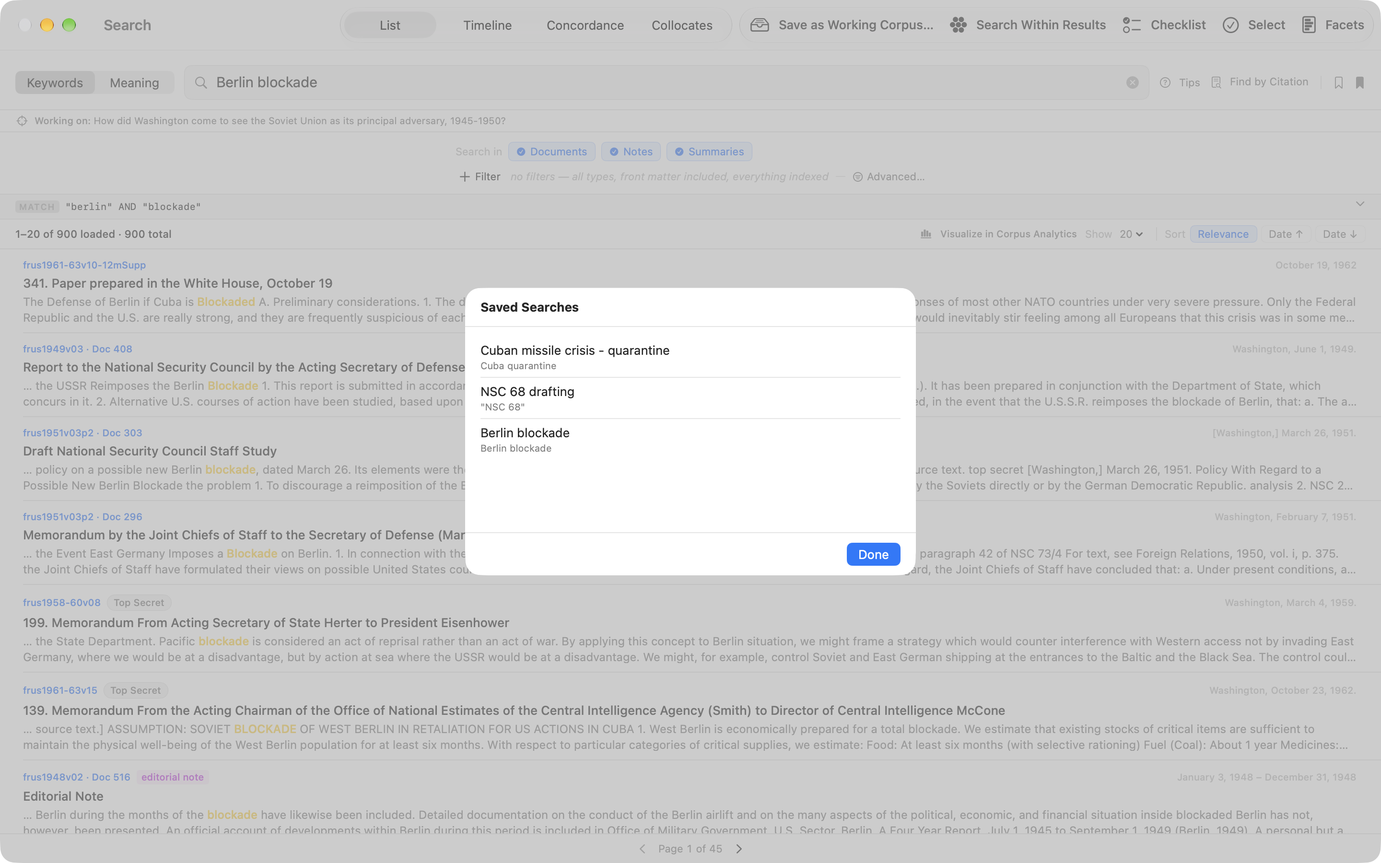
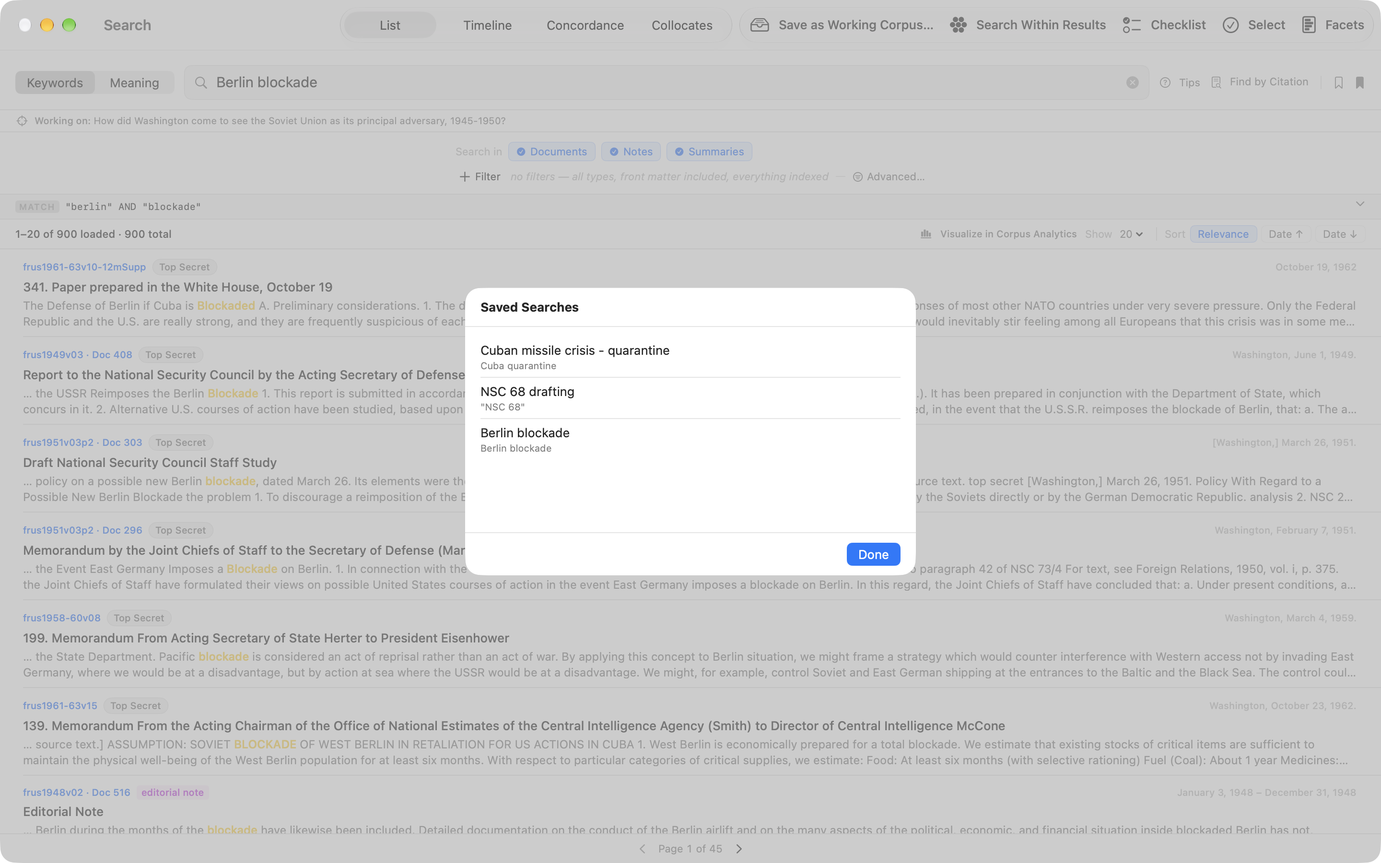
Screenshots: the Mac's 1861 retakes and its Editors' Annotations axis; captions in the manuals and quick starts

diff --git a/Docs/Website/quick-start-mac.html b/Docs/Website/quick-start-mac.html
@@ -145,7 +145,7 @@
 
 <p>Click <strong>Browse</strong> (⇧⌘B) to open the <strong>Corpus Browser</strong>. Its sidebar lists the ways in — <strong>All Volumes</strong>, <strong>Administrations</strong>, <strong>Editors</strong>, <strong>Archives</strong> and <strong>Clusters</strong>, your own scopes and corpora, and every subseries. Click a subseries, a volume, a chapter and a document, and the document opens in the main window.</p>
 
-<p class="shots"><img src="https://raw.githubusercontent.com/joshbotts/FRUS-Explorer/HEAD/Docs/screenshots/macos/browser.png" alt="The Corpus Browser: the sidebar&#x27;s Browse, Your sets and Subseries sections, each subseries with how many of its volumes are downloaded, and a volume&#x27;s page — Foreign Relations of the United States, 1946, Eastern Europe, The Soviet Union, Volume VI — with its top subjects, front matter and contents." width="2880" height="1760" loading="lazy"></p>
+<p class="shots"><img src="https://raw.githubusercontent.com/joshbotts/FRUS-Explorer/HEAD/Docs/screenshots/macos/browser.png" alt="The Corpus Browser: the sidebar&#x27;s Browse, Your sets and Subseries sections, each subseries with how many of its volumes are downloaded, and a volume&#x27;s page — Foreign Relations of the United States, 1946, Eastern Europe, The Soviet Union, Volume VI — with its top subjects, its Editors’ Annotations, front matter and contents." width="2880" height="1760" loading="lazy"></p>
 
 <p><em>The Corpus Browser, showing a volume's page.</em></p>
 
@@ -228,7 +228,7 @@
 
 <p>The <strong>Tips</strong> button beside the field has the full list, <code>NEAR</code> included.</p>
 
-<p class="shots"><img src="https://raw.githubusercontent.com/joshbotts/FRUS-Explorer/HEAD/Docs/screenshots/macos/search.png" alt="The Search window: a keyword search for Berlin blockade, with the List, Timeline, Concordance and Collocates switch in the title bar, the MATCH strip, 1–20 of 900 loaded, the ranked results with highlighted snippets, and the Facets panel open on its Subjects section." width="2880" height="1800" loading="lazy"></p>
+<p class="shots"><img src="https://raw.githubusercontent.com/joshbotts/FRUS-Explorer/HEAD/Docs/screenshots/macos/search.png" alt="The Search window: a keyword search for Berlin blockade, with the List, Timeline, Concordance and Collocates switch in the title bar, the MATCH strip, 1–20 of 900 loaded, the ranked results with highlighted snippets and classification markings such as Top Secret, and the Facets panel open on its Subjects section." width="2880" height="1800" loading="lazy"></p>
 
 <p><em>The Search window, with the Facets panel open.</em></p>
 
@@ -244,7 +244,7 @@
 
 <p>Click <strong>Sources</strong> in the Research rail. <strong>Source Explorer</strong> opens in a window of its own and reads the document's source note — the lot file, decimal file or presidential-library collection the original came from — and matches it, where it can, to its record in the National Archives catalog, including the entry number to give the archivists when you request the records. Below the record, <strong>Archival Neighbors</strong> lists the other documents in your indexed volumes that come from the same archival source, so you can read a document alongside the rest of its box.</p>
 
-<p class="shots"><img src="https://raw.githubusercontent.com/joshbotts/FRUS-Explorer/HEAD/Docs/screenshots/macos/source-explorer.png" alt="Source Explorer for a document printed from S/S–NSC files, lot 63 D 351: on the left the source note, its provenance — a State Department lot file in Record Group 59 — and the archival collection, cited in 98 volumes; on the right the NARA catalog record it resolves to, with HMS/MLR entry A1 1586E, and the Archival Neighbors list." width="2880" height="1800" loading="lazy"></p>
+<p class="shots"><img src="https://raw.githubusercontent.com/joshbotts/FRUS-Explorer/HEAD/Docs/screenshots/macos/source-explorer.png" alt="Source Explorer for a document printed from S/S–NSC files, lot 63 D 351: on the left the source note with the document&#x27;s Top Secret marking, its provenance — a State Department lot file in Record Group 59 — and the archival collection, cited in 98 volumes; on the right the NARA catalog record it resolves to, with HMS/MLR entry A1 1586E, and the Archival Neighbors list." width="2880" height="1800" loading="lazy"></p>
 
 <p><em>Source Explorer, resolving a lot file to its National Archives series.</em></p>
 

diff --git a/Docs/Website/quick-start-ios.html b/Docs/Website/quick-start-ios.html
@@ -147,7 +147,7 @@
   </tbody>
 </table>
 
-<p class="shots"><img src="https://raw.githubusercontent.com/joshbotts/FRUS-Explorer/HEAD/Docs/screenshots/ipad/browse-root.png" alt="Browse on iPad with the sidebar open — the five tabs, a saved search and the active project beneath them — and the Browse root: Continue reading, the volume search field, People and Topics, the Browse by tiles, and Your sets, with the Subseries list open on the right." width="2752" height="2064" loading="lazy"></p>
+<p class="shots"><img src="https://raw.githubusercontent.com/joshbotts/FRUS-Explorer/HEAD/Docs/screenshots/ipad/browse-root.png" alt="Browse on iPad with the sidebar open — the five tabs, a saved search and the active project beneath them — and the Browse root: Continue reading, the volume search field, People and Topics, the Browse by tiles, the Editors’ Annotations door below them, and Your sets, with the Subseries list open on the right." width="2752" height="2064" loading="lazy"></p>
 
 <p><em>The Browse tab, with the Subseries list open. Saved searches and projects appear in the sidebar under the tabs once you have some.</em></p>
 
@@ -235,7 +235,7 @@
 
 <p><strong>•••</strong> → <strong>Search Tips</strong> has the full list, <code>NEAR</code> included.</p>
 
-<p class="shots"><img src="https://raw.githubusercontent.com/joshbotts/FRUS-Explorer/HEAD/Docs/screenshots/ipad/search-results.png" alt="A keyword search for Berlin blockade on iPad: the Keywords and Meaning control, the row of result tools, the MATCH strip reading &quot;berlin&quot; AND &quot;blockade&quot;, 900 results on 36 pages, and the ranked list, each result with its number, heading, dateline, volume and a snippet with the matched words highlighted." width="2752" height="2064" loading="lazy"></p>
+<p class="shots"><img src="https://raw.githubusercontent.com/joshbotts/FRUS-Explorer/HEAD/Docs/screenshots/ipad/search-results.png" alt="A keyword search for Berlin blockade on iPad: the Keywords and Meaning control, the row of result tools, the MATCH strip reading &quot;berlin&quot; AND &quot;blockade&quot;, 900 results on 36 pages, and the ranked list, each result with its number, heading, dateline, volume a snippet with the matched words highlighted and, where the document prints one, its classification marking, such as Top Secret." width="2752" height="2064" loading="lazy"></p>
 
 <p><em>A keyword search. The <strong>MATCH</strong> strip shows how the app read your query.</em></p>
 
@@ -250,7 +250,7 @@
 
 <p>In the Research rail, tap <strong>Sources</strong>. <strong>Source Explorer</strong> reads the document's source note — the lot file, decimal file or presidential-library collection the original came from — and matches it, where it can, to its record in the National Archives catalog, including the entry number to give the archivists when you request the records.</p>
 
-<p class="shots"><img src="https://raw.githubusercontent.com/joshbotts/FRUS-Explorer/HEAD/Docs/screenshots/ipad/source-explorer.png" alt="Source Explorer for a document printed from S/S–NSC files, lot 63 D 351: the source note, its provenance — a State Department lot file in Record Group 59 — and the NARA catalog record it resolves to, held at College Park, with HMS/MLR entry A1 1586E and a link to open the series in the NARA Catalog." width="2752" height="2064" loading="lazy"></p>
+<p class="shots"><img src="https://raw.githubusercontent.com/joshbotts/FRUS-Explorer/HEAD/Docs/screenshots/ipad/source-explorer.png" alt="Source Explorer for a document printed from S/S–NSC files, lot 63 D 351: the source note with the document&#x27;s Top Secret marking, its provenance — a State Department lot file in Record Group 59 — and the NARA catalog record it resolves to, held at College Park, with HMS/MLR entry A1 1586E and a link to open the series in the NARA Catalog." width="2752" height="2064" loading="lazy"></p>
 
 <p><em>Source Explorer, resolving a lot file to its National Archives series.</em></p>
 

diff --git a/Docs/macOS-User-Manual.md b/Docs/macOS-User-Manual.md
@@ -293,11 +293,13 @@ The vectors, the semantic map and its regions are made when the app is built. If
 
 Open the **Corpus Browser** with **⇧⌘B** (or **Find ▸ Corpus Browser…**) to navigate the series as a hierarchy — or through the sidebar's **Browse** section, by other ways in.
 
-![The Corpus Browser — the sidebar's Browse, Your sets and Subseries sections, and a volume's page with its Top subjects, front matter and contents.](screenshots/macos/browser.png)
+![The Corpus Browser — the sidebar's Browse, Your sets and Subseries sections, and a volume's page with its Top subjects, the collapsed Editors’ Annotations section, front matter and contents.](screenshots/macos/browser.png)
 
 ### 6.1 The Sidebar and Navigation Levels
 
 The sidebar has three sections. **Browse** holds the cross-cutting doors: **All Volumes** — one catalog of every volume, searchable, with a control arranging it by **Title** (A–Z on each volume's distinctive title segment, since almost every full title begins with the same series boilerplate; early annuals file under **#**), **Published** (print year, newest first, in decade groups — the year from the title page, not a declassification date), **Era**, or **Length** (document count, largest first); **Administrations** — every presidency from Lincoln on with its reach, drilling to the volumes whose documents *cover* the term (dated to it, never by publication; a volume spanning two administrations appears under both, and post-corpus presidencies stay visible but dimmed); **Editors** — the volume editors by surname, each drilling to their volumes in publication order (spelling variants merge into one entry; the printed forms and citations are never altered); and **Archives** — the series by its printed source notes, in three side-by-side lenses: eleven *provenance-type* doors (Central Decimal File, Subject-Numeric File, presidential libraries, lot files…) drilling to volume lists with per-volume shares; the Source Explorer's own *collection* index, grouped by **repository**, National Archives **record group**, or not at all, whose records now push their full detail in this window — citing-volume rows stay in your stack instead of jumping the sidebar; and the central-file *classes*, divided by the filing schedule in force, since the same number means different things under different schedules. The last two have a **Sort** menu — **document count** or name (a class number in the file's own order, so *711.11* before *711.2*), **ascending or descending**, remembered on this Mac, with every group and era collapsible from its header or all at once with **Collapse All** / **Expand All** — and collections whose citations name no record group, nearly every presidential-library collection among them, are listed together at the end; and **Clusters** — the corpus's 140 computed language groups, the same grouping the semantic map (Section 15.6) draws as regions, listed largest first with each cluster's four-term sampled label, document count, and era histogram. A cluster drills to its documents grouped by volume — paged, since the largest holds nearly 38,000 — with the usual coverage line and Download/Index rows, plus **See on the semantic map** (opens the map zoomed to the cluster, region card ready) and **Save as Working Corpus** (capped at 7,500, truncation stated). The screen states its own limits: labels are sampled terms, not subject headings; about 28% of the corpus (88,059 documents) belongs to no cluster and cannot be reached here; era bars reflect volume coverage, not document dates. Last, **Editors’ Annotations** lists every layer of editorial annotation in the three groups a volume's page uses, each with how many volumes carry it and a strip of the eras, earliest first and the late retrospective volumes last, each era shaded by the share of its volumes that carry the layer. The strips form a matrix, the eras' first years heading each group, and a cell opens that era's volumes that carry the layer. A layer pushes its page: what the editors did, when the series made it standard, the strip at full size with each era's first year, what the app does with it (people link to the People browser, source notes to Archives), and lists of the volumes with it and without it, each volume with its count; source notes add a list for each form, and the printed aids have one list per aid. A volume that prints a List of Persons but links none of its names to it is marked in its list. A **Your sets** section holds **Working Corpora** — your captured document sets, each opening as one always-rendering list grouped by volume, with a coverage line up top ("N of M documents indexed on this device"), real headings for indexed volumes, and gray identifier rows with **Download**/**Index** buttons for volumes this Mac doesn't hold (capture stays in Search results and the map's lasso; there is nothing to create here) — and **My Scopes** — your custom volume scopes, openable and now *editable and creatable* right here: a pushed editor renames a scope, removes members, and adds volumes through the catalog in picker mode; right-clicking any volume row anywhere in the browser offers *Add to Scope…* and *New Scope from Volume…*; and every volume list's toolbar has **Save as Scope…** to capture the whole slice (an administration's volumes, an editor's volumes) with the name pre-filled. **My Scopes** also has a **New Scope** button for an empty scope you fill from the catalog. **Browse Within This Scope**, which narrows the Subseries hierarchy to one scope's volumes, is on iPhone and iPad only: the Mac browser has no such filter, so here you open a scope to see its volumes. **Subseries** below it is the classic era list, and every volume list carries a search field matching on title or volume number (Section 6.2).
+
+![The Corpus Browser with Browse ▸ Editors’ Annotations selected — the layers in their three groups, Who is named, Where it came from and How it connects, each with how many volumes carry it and its row of era cells, 1861 to the retrospective volumes, shaded by the share of each era's volumes that carry it.](screenshots/macos/browse-annotations.png)
 
 ![The Corpus Browser with Browse ▸ All Volumes selected — the catalog in Published order, each volume with its print year, document count and download status.](screenshots/macos/browse-all-volumes.png)
 
@@ -317,7 +319,7 @@ A line at the top says how many volumes tag their people, *People are tagged in 
 
 The same person often appears across many volumes under different name forms ("Kissinger, Henry A.", "Kissinger, Henry", "Kissinger, Henry A. Laurence"). FRUS Explorer consolidates these into **one identity**, so you aren't chasing one person through a dozen entries. Each row shows the canonical name; a subtitle with the **role** a volume's List of Persons gives and the **active years** (*Secretary of State · 1973–1977*); and a **mention count** — the number of distinct documents referencing this identity across your indexed corpus. The active years run from the earliest to the latest year the volumes themselves give for the person: the years in their Lists of Persons, read by the words around them (*until January 3, 1979* — or *until his resignation on April 22, 1959* — is when someone left, *from June 13, 1982* when they began, and a post held *until his death on November 22, 1963* ends that year), and the dates of the indexed documents that mention them. They are never a preface or other front matter, which is dated when the volume was prepared; never a year a List of Persons gives only as a death (*died 1896*); and never the birth and death years of the name-authority data, which the detail sheet shows as life years instead. A search field filters by name.
 
-![The People browser — an alphabetical list of reconciled identities with role · active-years subtitles and mention counts.](screenshots/macos/people-list.png)
+![The People browser — the line People are tagged in 288 of 553 volumes with its Volumes that tag people link, above an alphabetical list of reconciled identities with role · active-years subtitles and mention counts.](screenshots/macos/people-list.png)
 
 Click a person for their detail panel. A **reconciled-identity seal** there marks a person matched to the bundled name-authority data, and a reconciled person's **life years** sit under the name, beside the role the Office of the Historian's people data gives them — that data's own years, with a year it lacks filled from the Principal Officers and Chiefs of Mission register. Those say when the person lived; the **Active** row below them is the volumes' span, as in the list.
 
@@ -364,7 +366,7 @@ It opens as its own window, so the index stays available beside whatever you are
 
 Press **⌥⌘F** (or choose **Find ▸ Search…**) for the Search window — the caret lands in the query field even if the window was already open behind something else, so you can start typing immediately. Search is full-text across every volume you've indexed, ranked by relevance (BM25) with English stemming, so *negotiate* also matches *negotiated* and *negotiating*. For a researcher the important properties are less the ranking than the accountability: the app shows you the exact query it ran, describes the whole result set rather than just the visible page, and — while **Log Research Sessions** is on (Section 17.4) — records every search that has words in it as evidence of your method.
 
-![The Search window — "Berlin blockade" in Keywords mode, the ranked results with highlighted snippets, citations and dates, and the Facets panel open on its Subjects section.](screenshots/macos/search.png)
+![The Search window — "Berlin blockade" in Keywords mode, the ranked results with highlighted snippets, citations, dates and classification markings, and the Facets panel open on its Subjects section.](screenshots/macos/search.png)
 
 ### 7.1 Running a Search
 
@@ -951,7 +953,7 @@ If your research will ever take you to College Park or a presidential library, t
 
 Click the Research rail's **Sources** tile in any open document to open that document's source note in a Source Explorer window of its own. **Window ▸ Source Explorer** opens the shared Source Explorer window without the rail: it starts on the source note of the document you opened most recently, if any, and otherwise on its **Collections** view (Section 14.5); **Look Up in NARA** on the selection bar opens the same window's **NARA Lookup** view (Section 14.2). The source note's ▤ mark in the text shows the note in a popover and does not open Source Explorer. **Learn About Source Notes**, in the Source Explorer window's toolbar, explains how to read an archival source note; worth a first read if archival citation forms are new to you.
 
-![Source Explorer resolving a lot-file source — the parsed note, provenance and collection on the left; the NARA query, the matched catalog record with its HMS/MLR entry, and Archival Neighbors on the right.](screenshots/macos/source-explorer.png)
+![Source Explorer resolving a lot-file source — the parsed note with its Top Secret marking, provenance and collection on the left; the NARA query, the matched catalog record with its HMS/MLR entry, and Archival Neighbors on the right.](screenshots/macos/source-explorer.png)
 
 ### 14.1 What Resolves, and How
 
@@ -1128,11 +1130,11 @@ Person Analytics turns the People browser's reconciled identities (Section 6.3) 
 - **Most-Mentioned People** — a ranking of the people named in the most documents within your year range, switchable between chart and table; narrow the **year range** to compare the early Cold War with détente.
 - **Mention Trajectories** — pick up to five people and chart their mention counts on the same axes (per-year or per-decade; raw counts or share of documents). With exactly two people selected, a **Relationship Dynamics** chart appears: how many documents name *both* in each period — a proxy for when their dealings intensified.
 
-![Person Analytics in Trends mode — the most-mentioned ranking and a multi-person trajectory comparison.](screenshots/macos/person-analytics-trends.png)
+![Person Analytics in Trends mode — the line saying People are tagged in 288 of 553 volumes, the most-mentioned ranking, and a multi-person trajectory comparison.](screenshots/macos/person-analytics-trends.png)
 
 **Network** draws a **co-mention ego-network**: a focus person at the center, surrounded by the people they are most often mentioned alongside — a person's immediate "cast" at a glance. The focus person's name is always drawn under the center, on a patch of background over anything beneath it. The other names are drawn where they fit, in this order: the partner shown in the panel beside the graph, then the others by shared documents. A name that would run into another name, the focus person's patch or another node under its node is drawn above the node instead, and goes unlabeled only when it does not fit there either; hover over a partner or click it to see its name in the panel. While the network settles into place — after it opens, re-centers or is resized — only the focus person is named; the other names appear once it comes to rest. Drag the background to pan, scroll to zoom, and double-click to reset the view. A long name is cut at a word break and ends in an ellipsis. The **Focus** line above the graph names the person at the center: **Explore connections** — in the panel, or on a node's right-click menu — and the graph's **Back** move it with the graph, and choosing someone in its **Set focus person…** field always re-centers the graph on them, even the person it opened on.
 
-![Person Analytics in Network mode — George Kennan at the center of his co-mention ego network, partners sized by shared documents.](screenshots/macos/person-analytics-network.png)
+![Person Analytics in Network mode — the 288-volume line under the scope, and George Kennan at the center of his co-mention ego network, partners sized by shared documents.](screenshots/macos/person-analytics-network.png)
 
 Note for anyone quoting numbers: Person Analytics counts mentions over *dated* documents only, so its absolute counts are not directly comparable with Corpus Analytics — the CSV export says so (15.8).
 

diff --git a/Docs/iOS-User-Manual.md b/Docs/iOS-User-Manual.md
@@ -314,7 +314,7 @@ The **Browse** tab navigates the series by its own structure: subseries (publica
 
 On an iPad with room for two panes — in landscape, for instance — the root stays on the left as a list while the level you open fills the right. The row or tile you opened it from stays highlighted in the list, however deep you go inside it, and VoiceOver reads it as selected. That includes **Continue reading**: while the document it reopened is open beside the list, the row keeps naming that document, even after you follow a reference out of it or read something else in another tab. A document is the exception: it takes the whole width unless the window also has room for the Research rail beside it (Section 4.2), which on a 13-inch iPad means landscape with the tabs as a floating bar. With the tabs in the sidebar, the navigation bar across the panes names the level you opened, with your project's research question beneath it (Section 10.2). **Back** brings the level beneath back with what you set on it: in Archives, the lens you chose, the eras and groups you closed, and the collection search; in a collection, the lists you expanded with **Show all**; in All Volumes and Editors, the search. The list on the left keeps its search too, when a document has taken its place. Turning the iPad across the width where the panes appear keeps all of these. The level itself is drawn again, though: it opens at the top of its list, and a collection whose sub-series you opened in Archives' Collections list shows them closed again. Choosing a door again from the list on the left opens that level afresh.
 
-![The Browse root — Continue reading, the volume search field, the People and Topics rows, the "Browse by" tiles, and Your sets.](screenshots/ipad/browse-root.png)
+![The Browse root — Continue reading, the volume search field, the People and Topics rows, the "Browse by" tiles with the Editors’ Annotations door below them, and Your sets.](screenshots/ipad/browse-root.png)
 
 ### 6.1 The Browse Root
 
@@ -451,6 +451,8 @@ A volume that prints a List of Persons but links none of its names to it is mark
 
 On an iPad the strips stack into a matrix: the eras' first years head each group, and each cell opens that era's volumes that carry the layer, such as the 114 volumes covering 1955–1968 that tag people. With VoiceOver, a cell reads its layer, its era and its count.
 
+![The Editors’ Annotations axis on iPad — under Who is named, each layer with its count of volumes, such as People tagged in 288 of 553, and its strip of eras from 1861 to the retrospective volumes, shaded by the share of each era's volumes that carry it.](screenshots/ipad/browse-annotations.png)
+
 ### 6.2 Top Subjects
 
 Every volume's page carries a **Top subjects** section — the subjects most characteristic of that volume, derived from experimental subject data and grouped by category. These are automatically detected topics, not editorial subject headings, so an occasional mistag is possible; but because the profiles ship with the app, they appear even for volumes you haven't downloaded — a fast way to size up an unfamiliar volume before committing 6 MB to it. Tap a subject to see every *other* FRUS volume covering it across the whole corpus, and navigate straight to any of them. That sheet also offers **Archival profile of these volumes**, which opens Archival Analytics (Section 15.5) on the collections those volumes draw on.
@@ -483,6 +485,8 @@ Every volume's page also says what its editors annotated, under **Editors’ Ann
 
 A layer is listed when the volume carries it. For one that most documents can carry, such as tagged people, that means at least half the volume's documents; a count shows how many. **Not in this volume** lists the standard layers the volume lacks, each with the era from which the series made it standard, so you know before you download whether, for example, the People browser and Person analytics will find the people in it. Like Top subjects, the section ships with the app, so it appears for volumes you have not downloaded. Tap a layer, present or not, to open its page on the Editors’ Annotations axis (Section 6.1i), whose lists put this volume first.
 
+![The page of Foreign Relations, 1947, Volume II (Council of Foreign Ministers; Germany and Austria) — its details, then Editors’ Annotations: people tagged in 539 of its 570 documents, abbreviations explained, senders and recipients, source notes, classification markings, cross-references, editorial notes and footnotes.](screenshots/ipad/volume-annotations.png)
+
 ### 6.3 The Project Picker
 
 A **project picker** in the Browse toolbar sets your active research context — **Global Context** (no project), any of your projects, or **Manage Projects**. Whatever is active follows you everywhere: new notes, summaries, and collections are filed under it automatically (Section 10).
@@ -501,7 +505,7 @@ A line at the top says how many volumes tag their people, *People are tagged in 
 
 The same person often appears across many volumes under different name forms ("Kissinger, Henry A.", "Kissinger, Henry", "Kissinger, Henry A. Laurence"). FRUS Explorer consolidates these into **one identity**, so you aren't chasing one person through a dozen entries. Each row shows the canonical name; a subtitle with the **role** a volume's List of Persons gives and the **active years** (*Secretary of State · 1973–1977*); and a **mention count** — the number of distinct documents referencing this identity across your indexed corpus. The active years run from the earliest to the latest year the volumes themselves give for the person: the years in their Lists of Persons, read by the words around them (*until January 3, 1979* — or *until his resignation on April 22, 1959* — is when someone left, *from June 13, 1982* when they began, and a post held *until his death on November 22, 1963* ends that year), and the dates of the indexed documents that mention them. They are never a preface or other front matter, which is dated when the volume was prepared; never a year a List of Persons gives only as a death (*died 1896*); and never the birth and death years of the name-authority data, which the detail sheet shows as life years instead. A search field filters by name.
 
-![People browser — a single alphabetical list of reconciled identities with role · active-years subtitles and corpus-wide mention counts.](screenshots/ipad/people-list.png)
+![People browser — the line People are tagged in 288 of 553 volumes with its Volumes that tag people link, above a single alphabetical list of reconciled identities with role · active-years subtitles and corpus-wide mention counts.](screenshots/ipad/people-list.png)
 
 Tap a person for their **detail sheet**. A **reconciled-identity seal** there marks a person matched to the bundled name-authority data, and a reconciled person's **life years** sit under the name, beside the role the Office of the Historian's people data gives them — that data's own years, with a year it lacks filled from the Principal Officers and Chiefs of Mission register. Those say when the person lived; the **Active** row below them is the volumes' span, as in the list.
 
@@ -532,7 +536,7 @@ To study *how* these people are mentioned over time — rankings by era, traject
 
 The **Search** tab is full-text search across every volume you've downloaded and indexed — ranked by relevance with the BM25 algorithm and English-language stemming, so *negotiate* also matches *negotiation* and *negotiated*. On iPad with a keyboard, **⌥⌘F** (**Find → Search** in the menu bar) brings the Search tab forward from any tab. For a researcher the important properties are less the ranking than the accountability: the app shows you the exact query it ran, describes the whole result set rather than just the visible page, and — while **Log Research Sessions** is on (Section 17.5) — records every search you run that has words in it as evidence of your method.
 
-![Search results on iPad — the query field, the actions bar, and the ranked list with headings, datelines, volume identifiers, and highlighted snippets.](screenshots/ipad/search-results.png)
+![Search results on iPad — the query field, the actions bar, and the ranked list with headings, datelines, volume identifiers, highlighted snippets, and each document's classification marking, such as Top Secret.](screenshots/ipad/search-results.png)
 
 ### 7.1 Running a Search
 
@@ -946,6 +950,8 @@ Tap a category to see the matching documents. Each row carries the document's ti
 - **Collections Exported**, the third section, records what left the app — format, document count, collection name — because nothing else remembers an export happened. It matters most for the Zotero web send, which writes into your live Zotero library: this row is the app's only memory of it. These rows are records, not shortcuts; delete is their only action.
 - Long lists load 500 entries per section, with **Show More** and an honest header ("Showing 500 of 12,904") while anything is unloaded. The search field filters what is *loaded*, so Show More widens what a search can reach.
 
+![Research → History on iPad — the end of Documents Visited, then Searches Executed, each search with its result count and age, the one that found nothing (0 results) kept with the rest.](screenshots/ipad/research-history.png)
+
 If the sections stay empty, check **Settings → Research → Research Sessions**: with **Log Research Sessions** off nothing new is recorded, and History says so (Section 17.5).
 
 ---
@@ -1203,7 +1209,7 @@ If your research will ever take you to College Park or a presidential library, t
 
 Tap the **Sources** tile in a document's Research rail. Source Explorer shows the parsed source-note information and, where the note resolves, a direct link to the corresponding record in the **NARA online catalog**, which opens in your browser. The **ⓘ** button says what Source Explorer shows, and **Learn About Source Notes**, in the **⋯** menu beside it, opens the Research Guide at *Understanding What You're Reading*, which explains how to read an archival source note — worth a first read if archival citation forms are new to you.
 
-![Source Explorer on iPad — the parsed source note, and the NARA catalog record it resolves to.](screenshots/ipad/source-explorer.png)
+![Source Explorer on iPad — the parsed source note with the document's Top Secret marking, and the NARA catalog record it resolves to.](screenshots/ipad/source-explorer.png)
 
 ### 14.2 What Resolves, and How
 
@@ -1513,6 +1519,8 @@ Two outside services, neither required — each card shows its connection state 
 **Export as JSON** writes one file with your notes, tags, highlights, collections, custom prompts, projects, archive visit plans (each plan whole: its seeds, tiers, and per-target notes), saved searches, working corpora, volume scopes, your classification and person corrections, the changed passages you have reviewed, Suggested Next leads, and the settings you sync, together with your whole research trail: every document you opened, every search you ran *with its result count*, every collection you exported. The trail is not optional, deliberately — a search that returned nothing is evidence, and an export that dropped it could not stand as a record of how you worked. Each entry carries the project active when it was recorded, so a file exported mid-project reads back as the method behind it. Notes keep their formatting, and collections their whole composition: headings, prose, excerpts, generated blocks, and every setting. **Export Notes as Markdown** writes one file per note, Obsidian-compatible — the bridge to a Zettelkasten or note-graph workflow. AI summaries are excluded by default (a toggle includes them), and each included summary records who wrote it — the model, the model then edited by you, or you. Because the JSON contains the text of every search you ran, look before you share it.
 
 **Export Query Log as a Method Appendix** writes the same trail as a methods statement rather than as data: a Markdown table you can paste into a paper, and a CSV to re-derive from. Each row is one search with the scope it ran under, how many volumes were indexed at the time, and what it returned. Both files, and the query log a collection appends, say what the counts were drawn from: the volumes' text, and the app's own model where a search by meaning is listed.
+
+![Settings → Data & Recovery on iPad — Export as JSON, Export Notes as Markdown and Export Query Log as a Method Appendix, each with a line saying what the file holds.](screenshots/ipad/data-recovery-export.png)
 
 The reason to keep it is the zeros. *"I searched for this and found nothing"* is an assertion; the same sentence with a date, a scope, and a denominator is evidence — the only form of it a reader can check. Counts that hit the app's row ceiling are written as **"at least 1,000"** on iPad and iPhone (the ceiling is 7,500 on a Mac, and one synced trail can hold both), never as the bare number — a ceiling-capped fetch is a floor, not a total. A Meaning search's list is the whole of its ranking, so its count is written as it is: *100*, not *at least 100*. The CSV carries a `count_basis` column saying which each row is, because a spreadsheet will otherwise sum a column of floors into a number nobody measured. Searches recorded before the app kept this detail print marked *"as reported"* rather than being dropped.
 

diff --git a/Docs/macOS-Quick-Start.md b/Docs/macOS-Quick-Start.md
@@ -71,7 +71,7 @@ The menu bar holds the same commands and more, in its **Document**, **Find**, **
 
 Click **Browse** (⇧⌘B) to open the **Corpus Browser**. Its sidebar lists the ways in — **All Volumes**, **Administrations**, **Editors**, **Archives** and **Clusters**, your own scopes and corpora, and every subseries. Click a subseries, a volume, a chapter and a document, and the document opens in the main window.
 
-![The Corpus Browser: the sidebar's Browse, Your sets and Subseries sections, each subseries with how many of its volumes are downloaded, and a volume's page — Foreign Relations of the United States, 1946, Eastern Europe, The Soviet Union, Volume VI — with its top subjects, front matter and contents.](screenshots/macos/browser.png)
+![The Corpus Browser: the sidebar's Browse, Your sets and Subseries sections, each subseries with how many of its volumes are downloaded, and a volume's page — Foreign Relations of the United States, 1946, Eastern Europe, The Soviet Union, Volume VI — with its top subjects, its Editors’ Annotations, front matter and contents.](screenshots/macos/browser.png)
 
 *The Corpus Browser, showing a volume's page.*
 
@@ -140,7 +140,7 @@ Press ⌥⌘F, or click **Search** in the toolbar. The **Search** window opens w
 
 The **Tips** button beside the field has the full list, `NEAR` included.
 
-![The Search window: a keyword search for Berlin blockade, with the List, Timeline, Concordance and Collocates switch in the title bar, the MATCH strip, 1–20 of 900 loaded, the ranked results with highlighted snippets, and the Facets panel open on its Subjects section.](screenshots/macos/search.png)
+![The Search window: a keyword search for Berlin blockade, with the List, Timeline, Concordance and Collocates switch in the title bar, the MATCH strip, 1–20 of 900 loaded, the ranked results with highlighted snippets and classification markings such as Top Secret, and the Facets panel open on its Subjects section.](screenshots/macos/search.png)
 
 *The Search window, with the Facets panel open.*
 
@@ -154,7 +154,7 @@ The **Tips** button beside the field has the full list, `NEAR` included.
 
 Click **Sources** in the Research rail. **Source Explorer** opens in a window of its own and reads the document's source note — the lot file, decimal file or presidential-library collection the original came from — and matches it, where it can, to its record in the National Archives catalog, including the entry number to give the archivists when you request the records. Below the record, **Archival Neighbors** lists the other documents in your indexed volumes that come from the same archival source, so you can read a document alongside the rest of its box.
 
-![Source Explorer for a document printed from S/S–NSC files, lot 63 D 351: on the left the source note, its provenance — a State Department lot file in Record Group 59 — and the archival collection, cited in 98 volumes; on the right the NARA catalog record it resolves to, with HMS/MLR entry A1 1586E, and the Archival Neighbors list.](screenshots/macos/source-explorer.png)
+![Source Explorer for a document printed from S/S–NSC files, lot 63 D 351: on the left the source note with the document's Top Secret marking, its provenance — a State Department lot file in Record Group 59 — and the archival collection, cited in 98 volumes; on the right the NARA catalog record it resolves to, with HMS/MLR entry A1 1586E, and the Archival Neighbors list.](screenshots/macos/source-explorer.png)
 
 *Source Explorer, resolving a lot file to its National Archives series.*
 

diff --git a/Docs/iOS-Quick-Start.md b/Docs/iOS-Quick-Start.md
@@ -73,7 +73,7 @@ The app has five tabs. On iPad they sit in a tab strip at the top of the screen,
 | **Collections** | Ordered sets of documents with your own headings and prose, exported as PDF, HTML or Word |
 | **Settings** | Volumes and storage, display, projects and tags, connections to Zotero and the National Archives, iCloud sync, About |
 
-![Browse on iPad with the sidebar open — the five tabs, a saved search and the active project beneath them — and the Browse root: Continue reading, the volume search field, People and Topics, the Browse by tiles, and Your sets, with the Subseries list open on the right.](screenshots/ipad/browse-root.png)
+![Browse on iPad with the sidebar open — the five tabs, a saved search and the active project beneath them — and the Browse root: Continue reading, the volume search field, People and Topics, the Browse by tiles, the Editors’ Annotations door below them, and Your sets, with the Subseries list open on the right.](screenshots/ipad/browse-root.png)
 
 *The Browse tab, with the Subseries list open. Saved searches and projects appear in the sidebar under the tabs once you have some.*
 
@@ -147,7 +147,7 @@ Open the **Search** tab, type a query, and tap **Search** on the keyboard (or pr
 
 **•••** → **Search Tips** has the full list, `NEAR` included.
 
-![A keyword search for Berlin blockade on iPad: the Keywords and Meaning control, the row of result tools, the MATCH strip reading "berlin" AND "blockade", 900 results on 36 pages, and the ranked list, each result with its number, heading, dateline, volume and a snippet with the matched words highlighted.](screenshots/ipad/search-results.png)
+![A keyword search for Berlin blockade on iPad: the Keywords and Meaning control, the row of result tools, the MATCH strip reading "berlin" AND "blockade", 900 results on 36 pages, and the ranked list, each result with its number, heading, dateline, volume a snippet with the matched words highlighted and, where the document prints one, its classification marking, such as Top Secret.](screenshots/ipad/search-results.png)
 
 *A keyword search. The **MATCH** strip shows how the app read your query.*
 
@@ -160,7 +160,7 @@ Open the **Search** tab, type a query, and tap **Search** on the keyboard (or pr
 
 In the Research rail, tap **Sources**. **Source Explorer** reads the document's source note — the lot file, decimal file or presidential-library collection the original came from — and matches it, where it can, to its record in the National Archives catalog, including the entry number to give the archivists when you request the records.
 
-![Source Explorer for a document printed from S/S–NSC files, lot 63 D 351: the source note, its provenance — a State Department lot file in Record Group 59 — and the NARA catalog record it resolves to, held at College Park, with HMS/MLR entry A1 1586E and a link to open the series in the NARA Catalog.](screenshots/ipad/source-explorer.png)
+![Source Explorer for a document printed from S/S–NSC files, lot 63 D 351: the source note with the document's Top Secret marking, its provenance — a State Department lot file in Record Group 59 — and the NARA catalog record it resolves to, held at College Park, with HMS/MLR entry A1 1586E and a link to open the series in the NARA Catalog.](screenshots/ipad/source-explorer.png)
 
 *Source Explorer, resolving a lot file to its National Archives series.*
 
